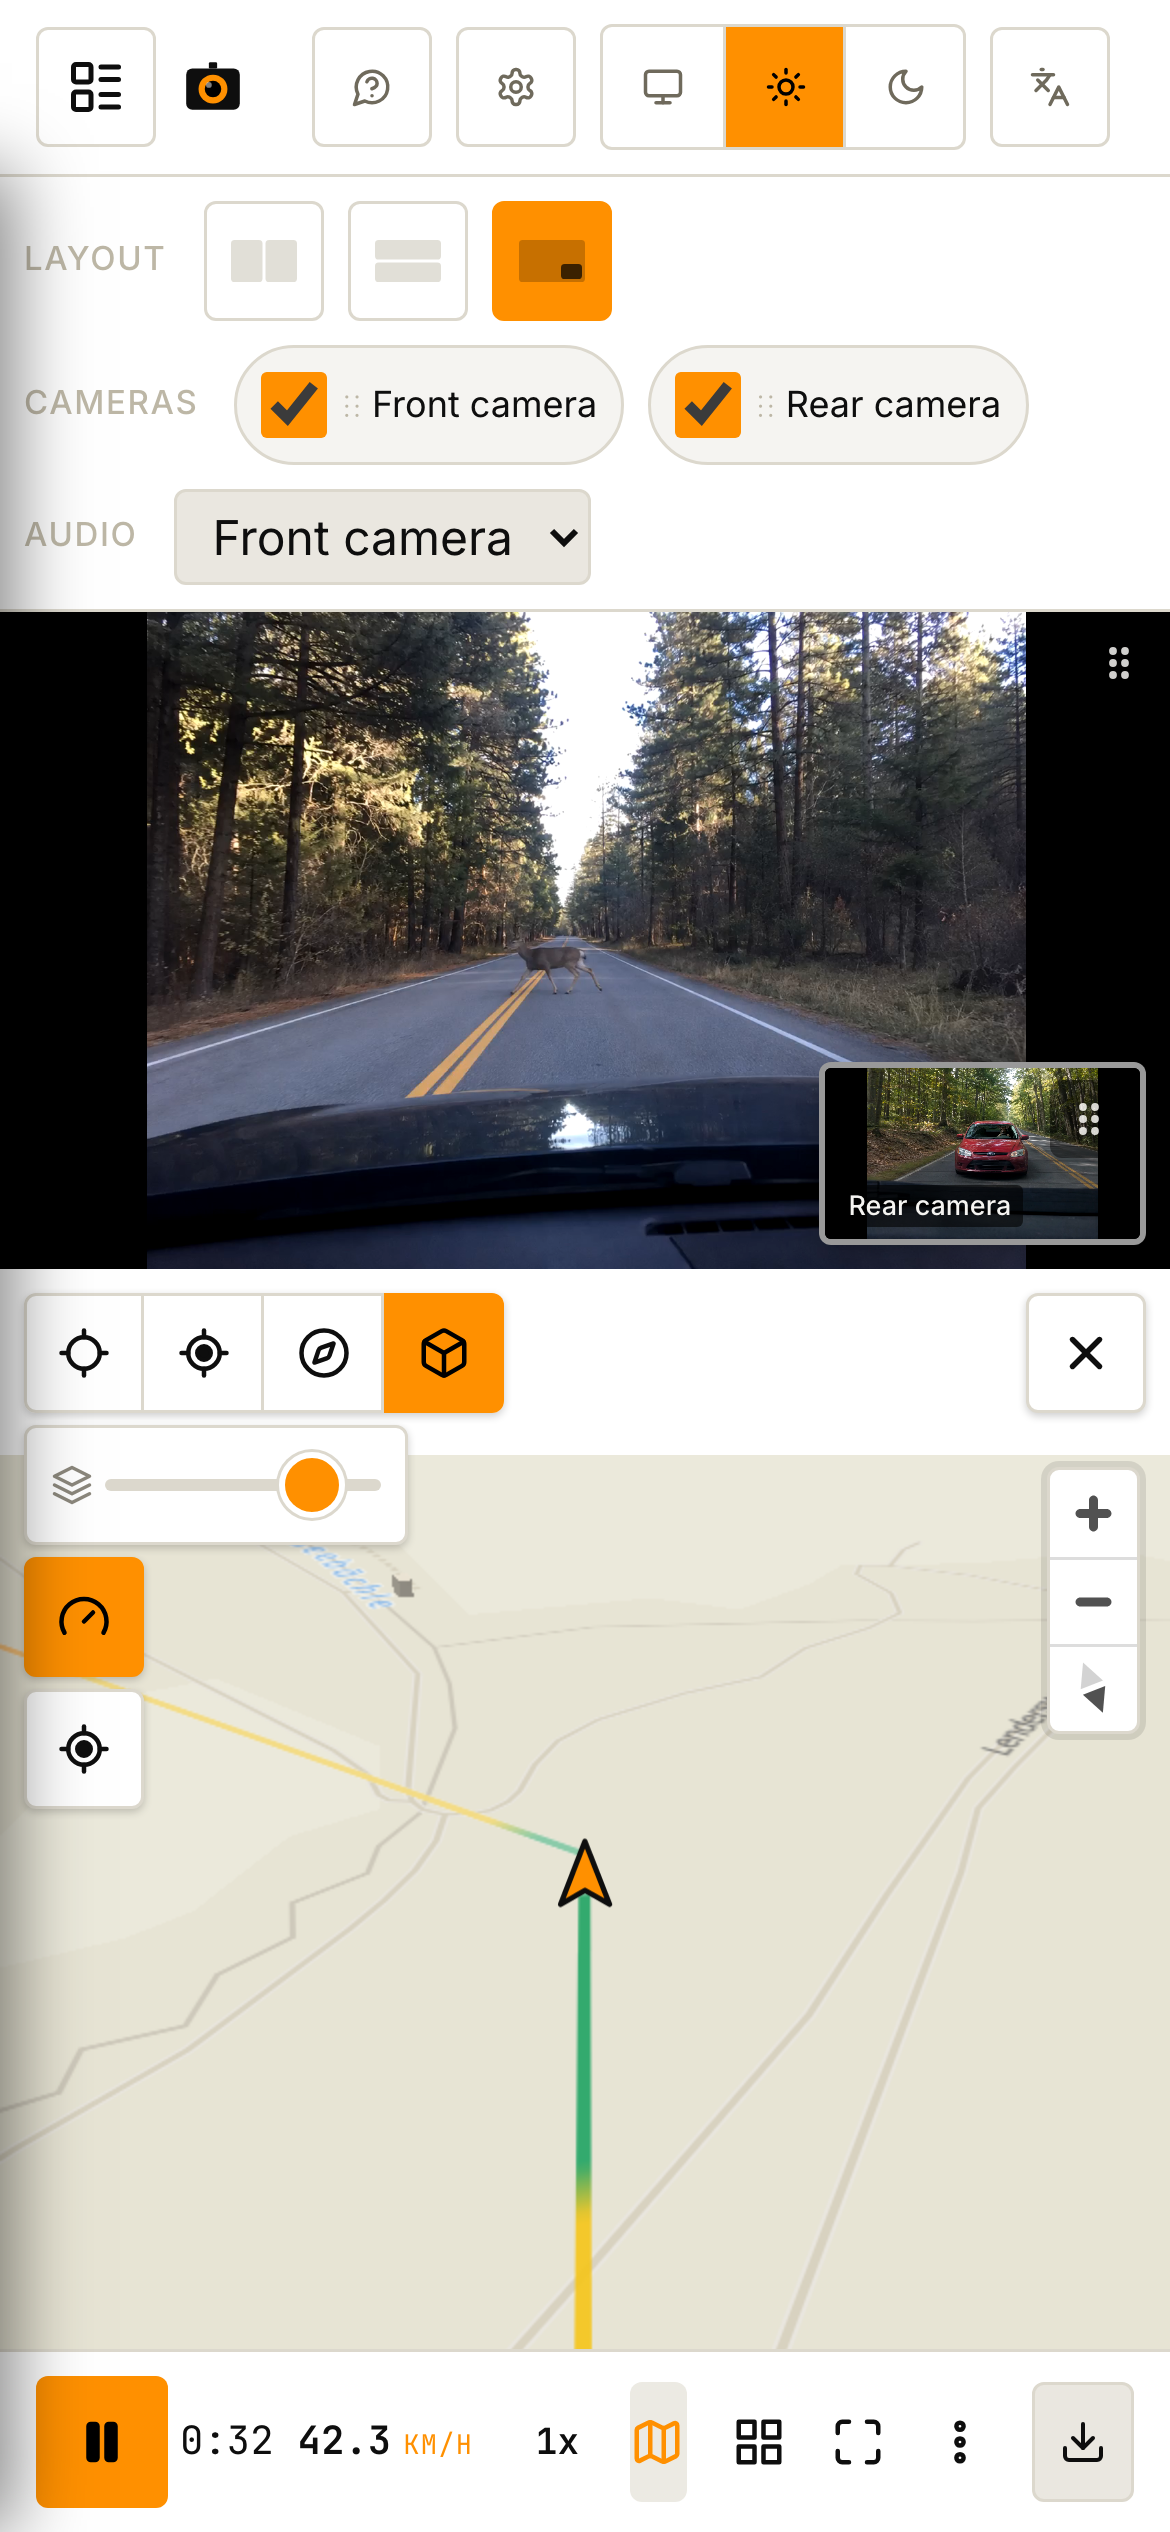
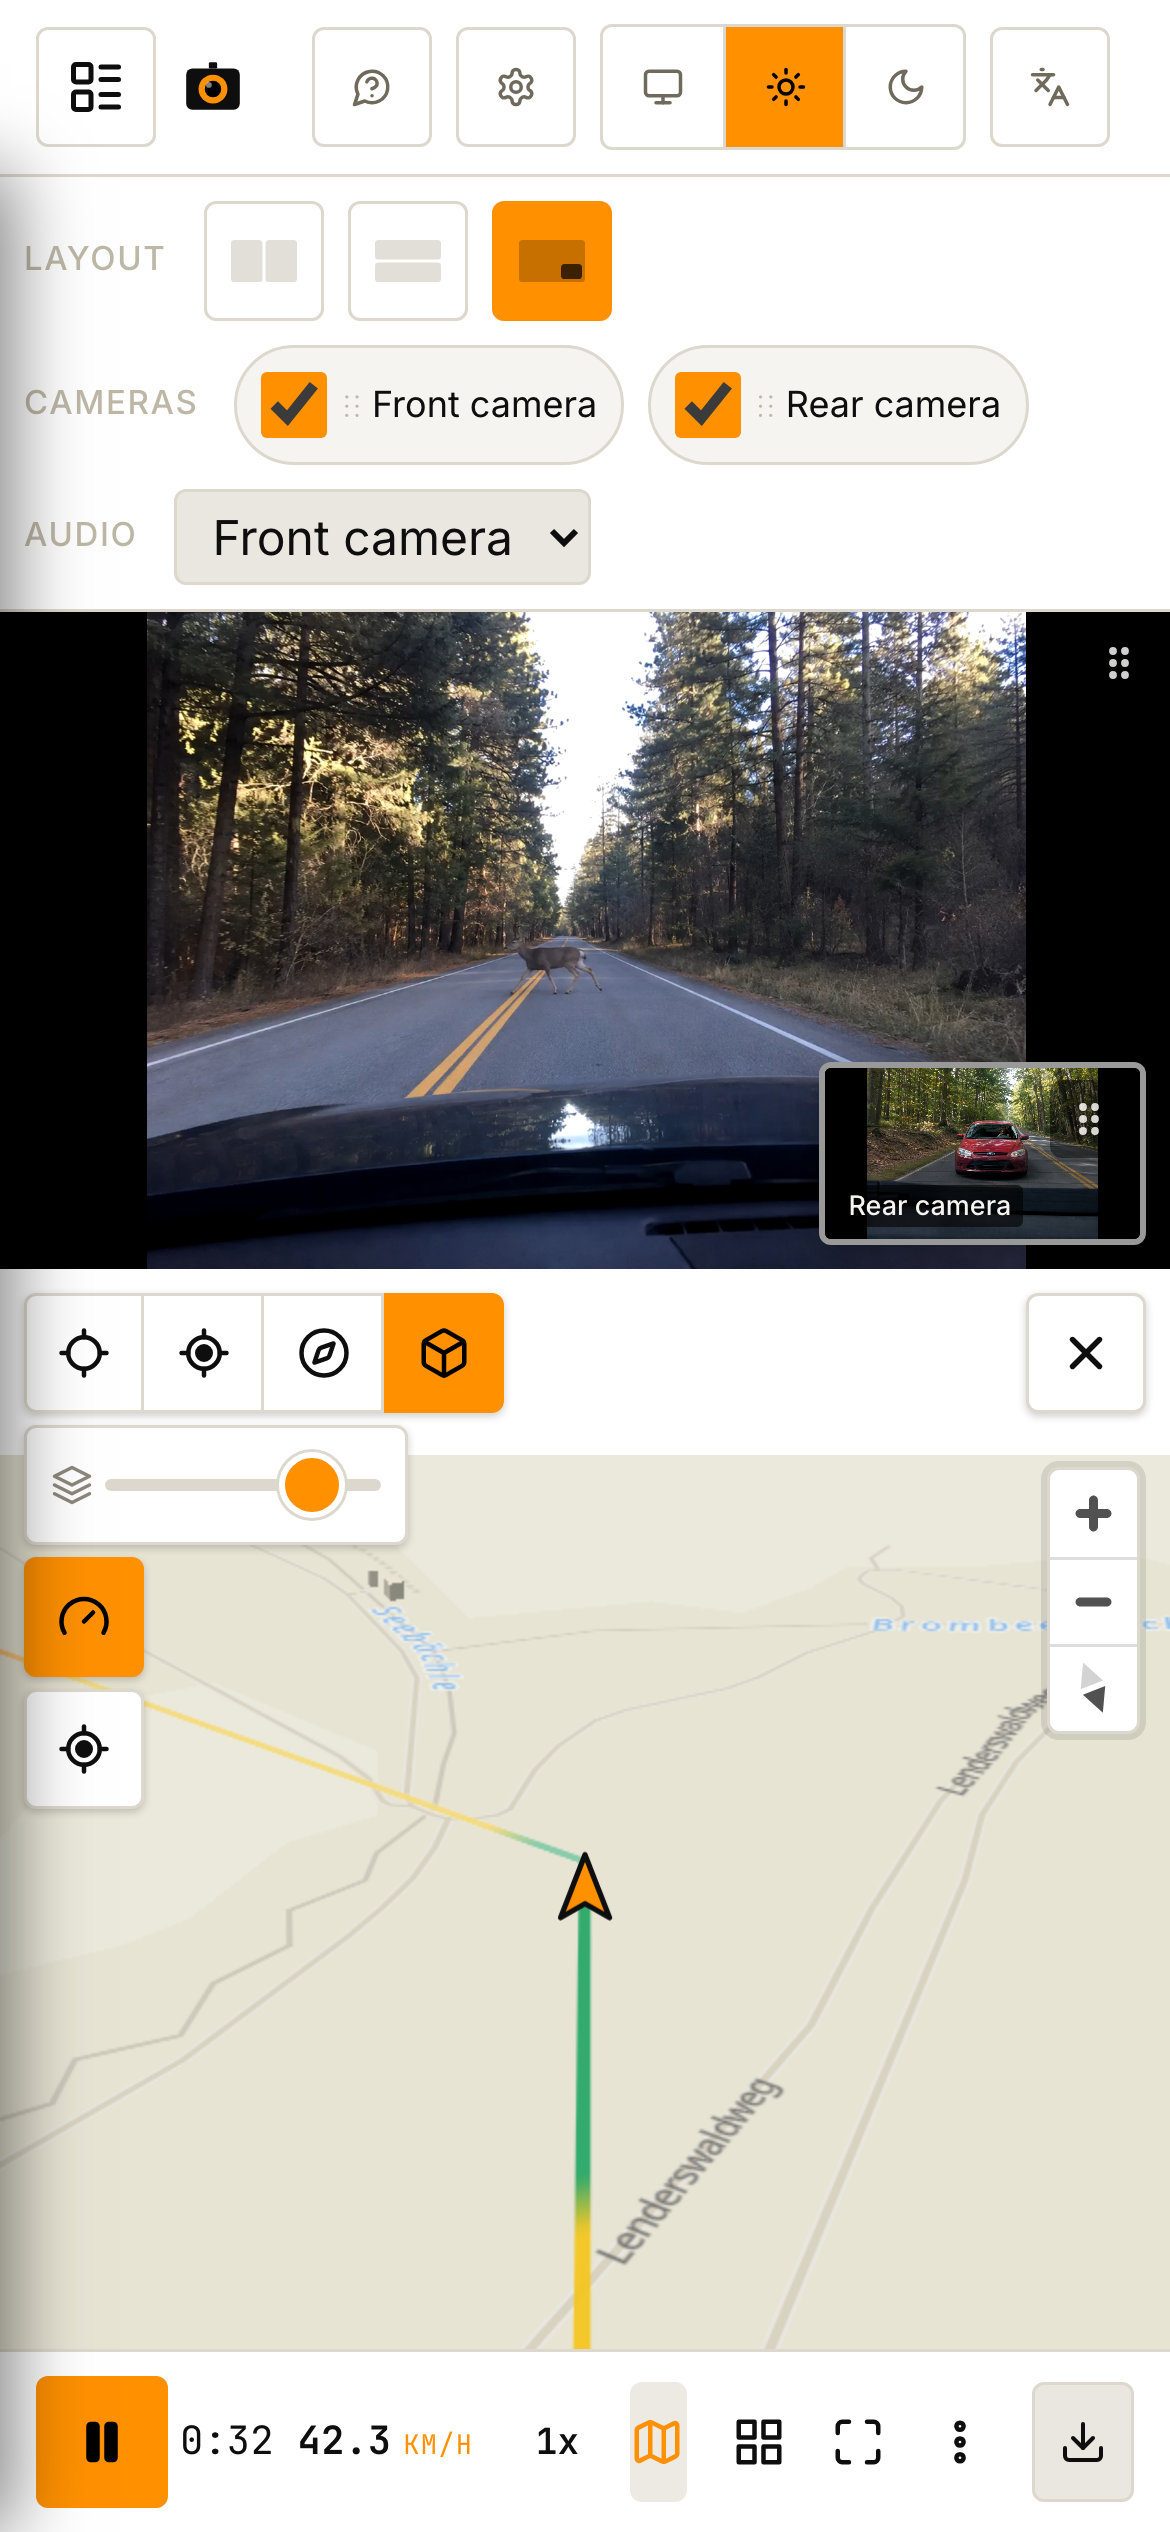
feat(player): control bar sits above the timeline with larger transport buttons
The bar lived at the bottom edge, below the chart stack - the mouse
travels there from the timeline for every play/step interaction. Grid
areas reorder to video/bar/chart (plus the export-mode and map-expanded
variants; the map pane now spans all rows). Mobile keeps its sticky
bottom bar and fullscreen keeps the bottom overlay - both own their
templates.

Transport (play + frame-step) grows to 38px with 20px icons as the
primary aim targets; the remaining icon buttons grow slightly to 32/18.
Selector specificity is kept below the mobile touch-size rules so the
44/40px floor still wins there.

README screenshots and the landing WebP set regenerated for the new
layout.

diff --git a/src/styles/components/viewer.css b/src/styles/components/viewer.css
@@ -41,14 +41,18 @@
        usage reads the bare var with no per-usage fallback. When map is
        expanded grid-template-areas change (see .map-expanded). */
     --chart-height: 166px;
-    grid-template-rows: minmax(0, 1fr) var(--chart-height) auto;
+    grid-template-rows: minmax(0, 1fr) auto var(--chart-height);
     /* minmax(0, 1fr) instead of 1fr: a bare track falls back to min-content,
        and the chart-canvas with inline width=Npx would prevent the column from shrinking. */
     grid-template-columns: minmax(0, 1fr);
+    /* Bar between video and timeline: transport controls sit next to the
+       chart the user scrubs on, instead of at the far bottom edge. Mobile
+       keeps its own bar-at-bottom template (sticky bar, see the mobile
+       block); fullscreen overlays the bar at the bottom too. */
     grid-template-areas:
         "video"
-        "chart"
-        "bar";
+        "bar"
+        "chart";
     min-height: 0;
     position: relative;
     /* Container scope for player-grid rules (map-expanded -> stack-on-narrow).
@@ -59,7 +63,7 @@
     container-name: pwrap;
 }
 /* Export mode: dock the trim bar (clip-range controls, #export-trim-bar) in
-   its own row between the video and the timeline stack. Only the templates
+   its own row right above the timeline stack. Only the templates
    reachable in export mode grow the "trim" area; the two guards keep this
    rule out of the templates that must survive intact: :not(:fullscreen) for
    the fullscreen video-only template (the fixed-position export panel cannot
@@ -69,12 +73,12 @@
    not the primary mechanism. The mobile grid override lives in the mobile
    block below and carries the same guards. */
 body.export-mode .player-wrap:not(:fullscreen):not(.map-expanded) {
-    grid-template-rows: minmax(0, 1fr) auto var(--chart-height) auto;
+    grid-template-rows: minmax(0, 1fr) auto auto var(--chart-height);
     grid-template-areas:
         "video"
+        "bar"
         "trim"
-        "chart"
-        "bar";
+        "chart";
 }
 /* Belt for the fullscreen + export-mode combination: without a "trim" area in
    the template the bar would auto-place into an implicit row and shrink the
@@ -83,7 +87,7 @@ body.export-mode .player-wrap:not(:fullscreen):not(.map-expanded) {
     display: none;
 }
 .player-wrap.map-expanded {
-    grid-template-rows: minmax(0, 1fr) var(--chart-height) auto;
+    grid-template-rows: minmax(0, 1fr) auto var(--chart-height);
     /* Map-pane default via clamp(280, 34%, 480): on a narrow laptop the map
        doesn't eat 38% (at 1280 that's ~380px - video was left with only
        ~614px), and on a wide desktop it doesn't balloon past 700+. min: 220
@@ -92,10 +96,12 @@ body.export-mode .player-wrap:not(:fullscreen):not(.map-expanded) {
         minmax(0, 1fr)
         4px
         minmax(220px, var(--map-width, clamp(280px, 34%, 480px)));
+    /* The map pane spans all three rows: the bar belongs to the player
+       columns only, so the map keeps an unbroken vertical strip. */
     grid-template-areas:
         "video vmr map"
-        "chart chart map"
-        "bar bar bar";
+        "bar bar map"
+        "chart chart map";
 }
 /* In no-gps trips the chart.js canvas is hidden (see chart.css), panel holds
    only ruler 14 + strip 52 + paddings. 72 = 14 + 52 + ~6 - picked so the

diff --git a/src/styles/components/player-bar.css b/src/styles/components/player-bar.css
@@ -40,6 +40,11 @@
     width: var(--dc-iconbtn);
     height: var(--dc-iconbtn);
     padding: 0;
+    /* Buttons hold their size; a narrow bar sheds items via @container rules
+       and overflow-bar.ts. Shrinkable buttons would defeat both: they squish
+       into slivers long before isOverflowing() (which compares edges, not
+       squeeze) sees anything to move into the overflow menu. */
+    flex-shrink: 0;
     border-radius: var(--dc-radius-sm);
     cursor: pointer;
     display: inline-flex;
@@ -65,6 +70,33 @@
     outline: 2px solid var(--accent);
     outline-offset: 1px;
 }
+/* Desktop sizing: transport (play + frame-step) is noticeably larger - the
+   most-aimed-at targets now that the bar sits right above the timeline; the
+   rest of the bar grows slightly over the --dc-iconbtn base. The mobile block
+   below overrides all of this with touch sizes (44/40) and wins by cascade
+   order. :not(.player-btn-text) keeps the auto-width text buttons (speed,
+   view-menu) out of the square sizing. */
+.player-bar .player-btn:not(.player-btn-text) {
+    width: 32px;
+    height: 32px;
+}
+.player-bar .player-btn svg {
+    width: 18px;
+    height: 18px;
+}
+/* Kept at id / class-pair specificity so the mobile block's #player-play
+   (44px) and .player-btn:not(#player-play) (40px) rules still win there. */
+#player-play,
+.player-bar .player-step {
+    width: 38px;
+    height: 38px;
+}
+#player-play svg,
+.player-bar .player-step svg {
+    width: 20px;
+    height: 20px;
+}
+
 /* Frame-step pair (player-frame-step.ts). touch-action: none - a touch hold
    drives auto-repeat, so the browser must not steal the gesture for scrolling
    (pointercancel would kill the repeat mid-hold). */
